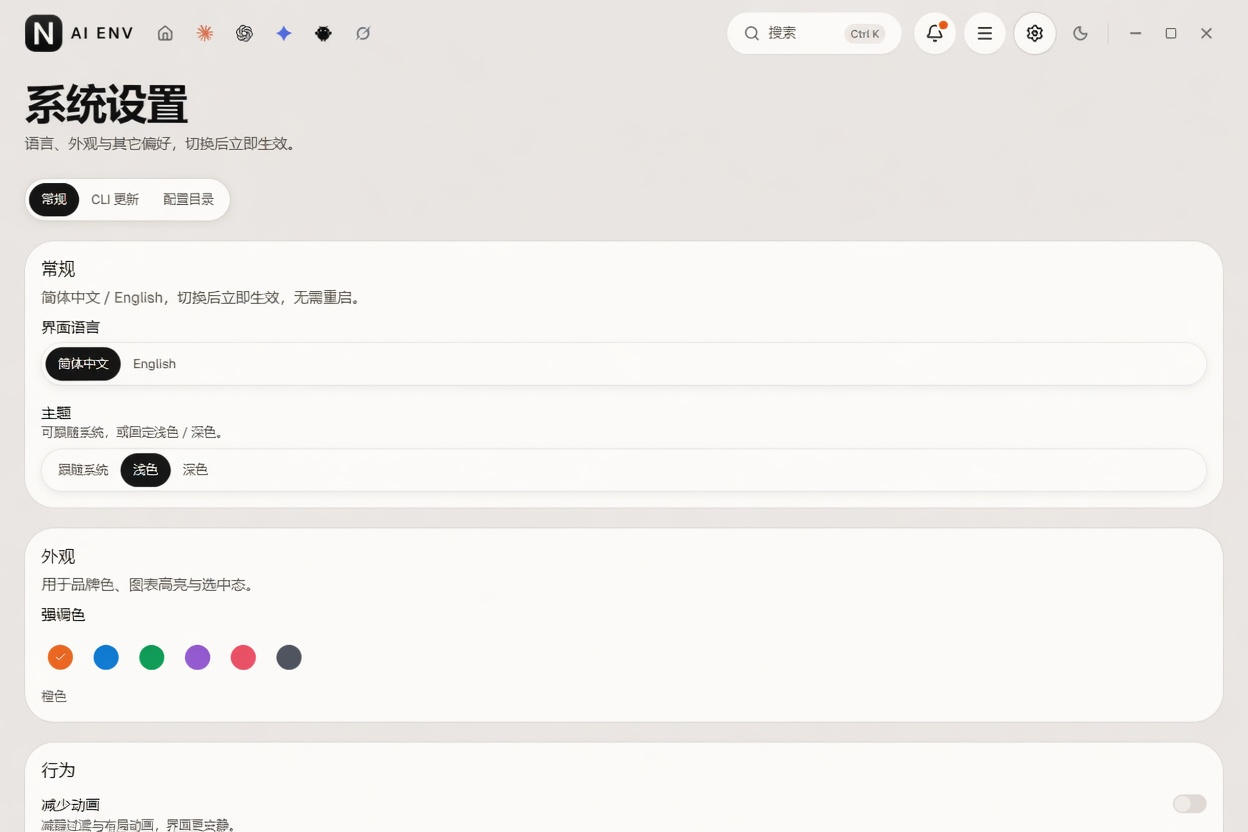
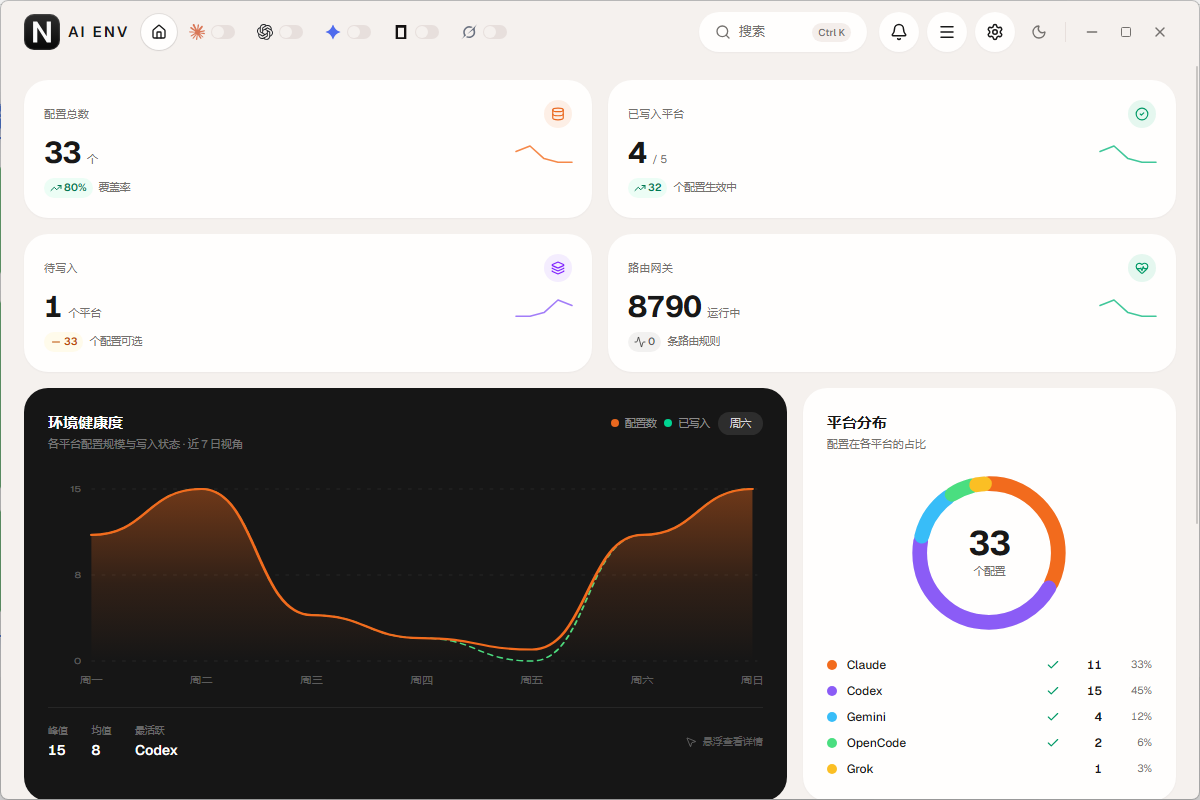
docs: 换成软件首页截图

diff --git a/README.md b/README.md
@@ -24,7 +24,7 @@
 </p>
 
 <p align="center">
-  <img src="portal.png" alt="AI ENV 界面" width="100%" />
+  <img src="portal.png" alt="AI ENV 首页" width="100%" />
 </p>
 
 ## 这是什么

diff --git a/README_EN.md b/README_EN.md
@@ -24,7 +24,7 @@
 </p>
 
 <p align="center">
-  <img src="portal.png" alt="AI ENV screenshot" width="100%" />
+  <img src="portal.png" alt="AI ENV home" width="100%" />
 </p>
 
 ## What it is
